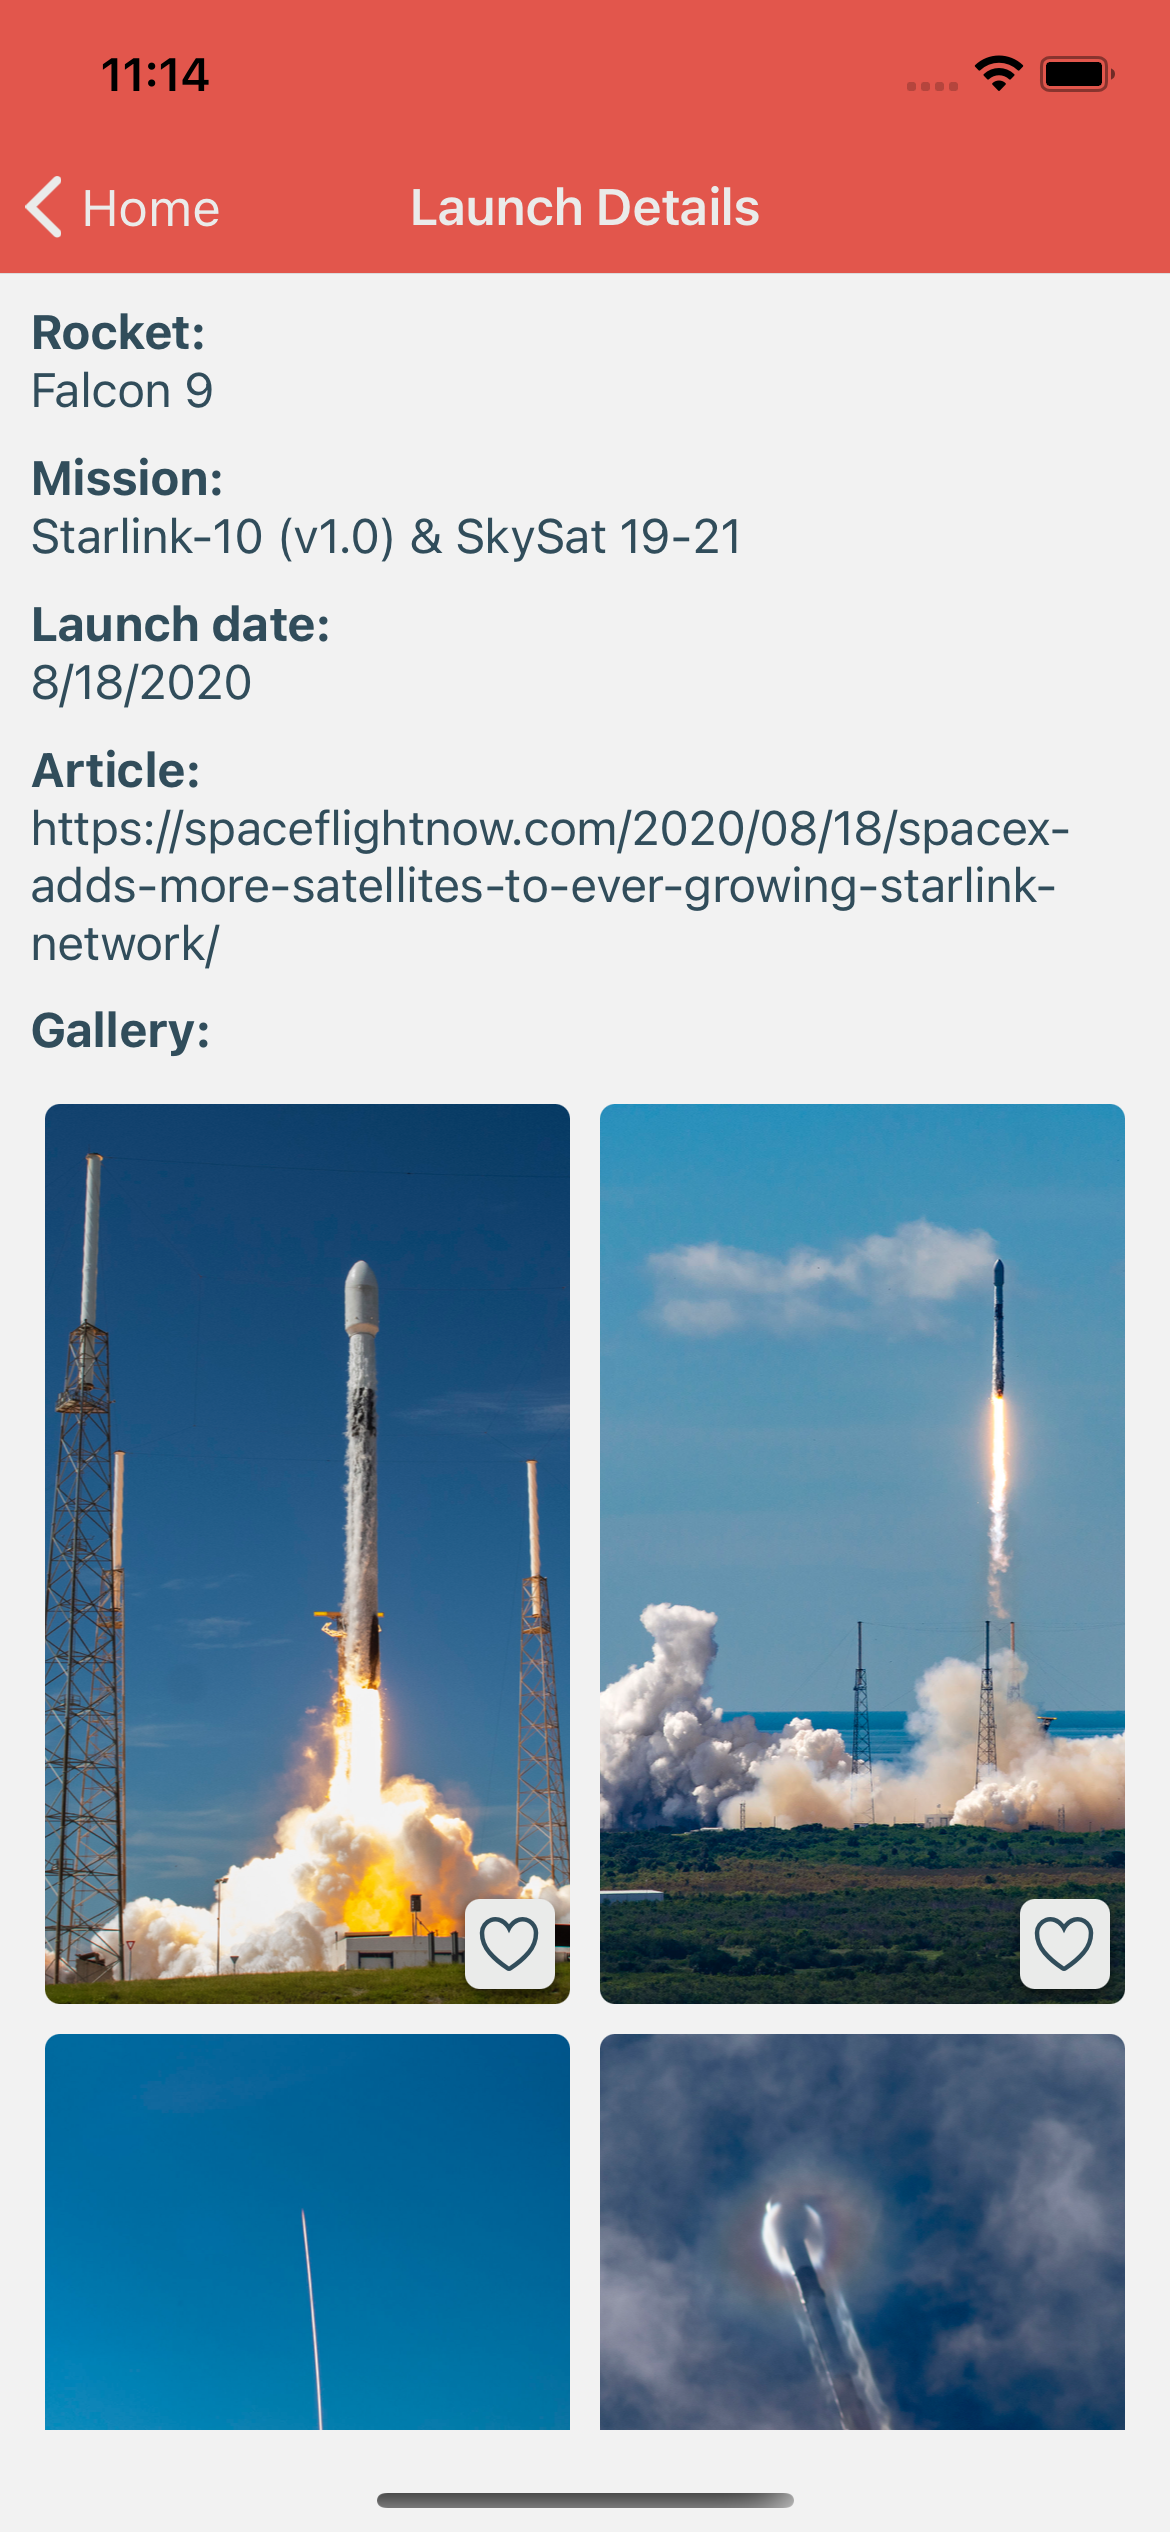
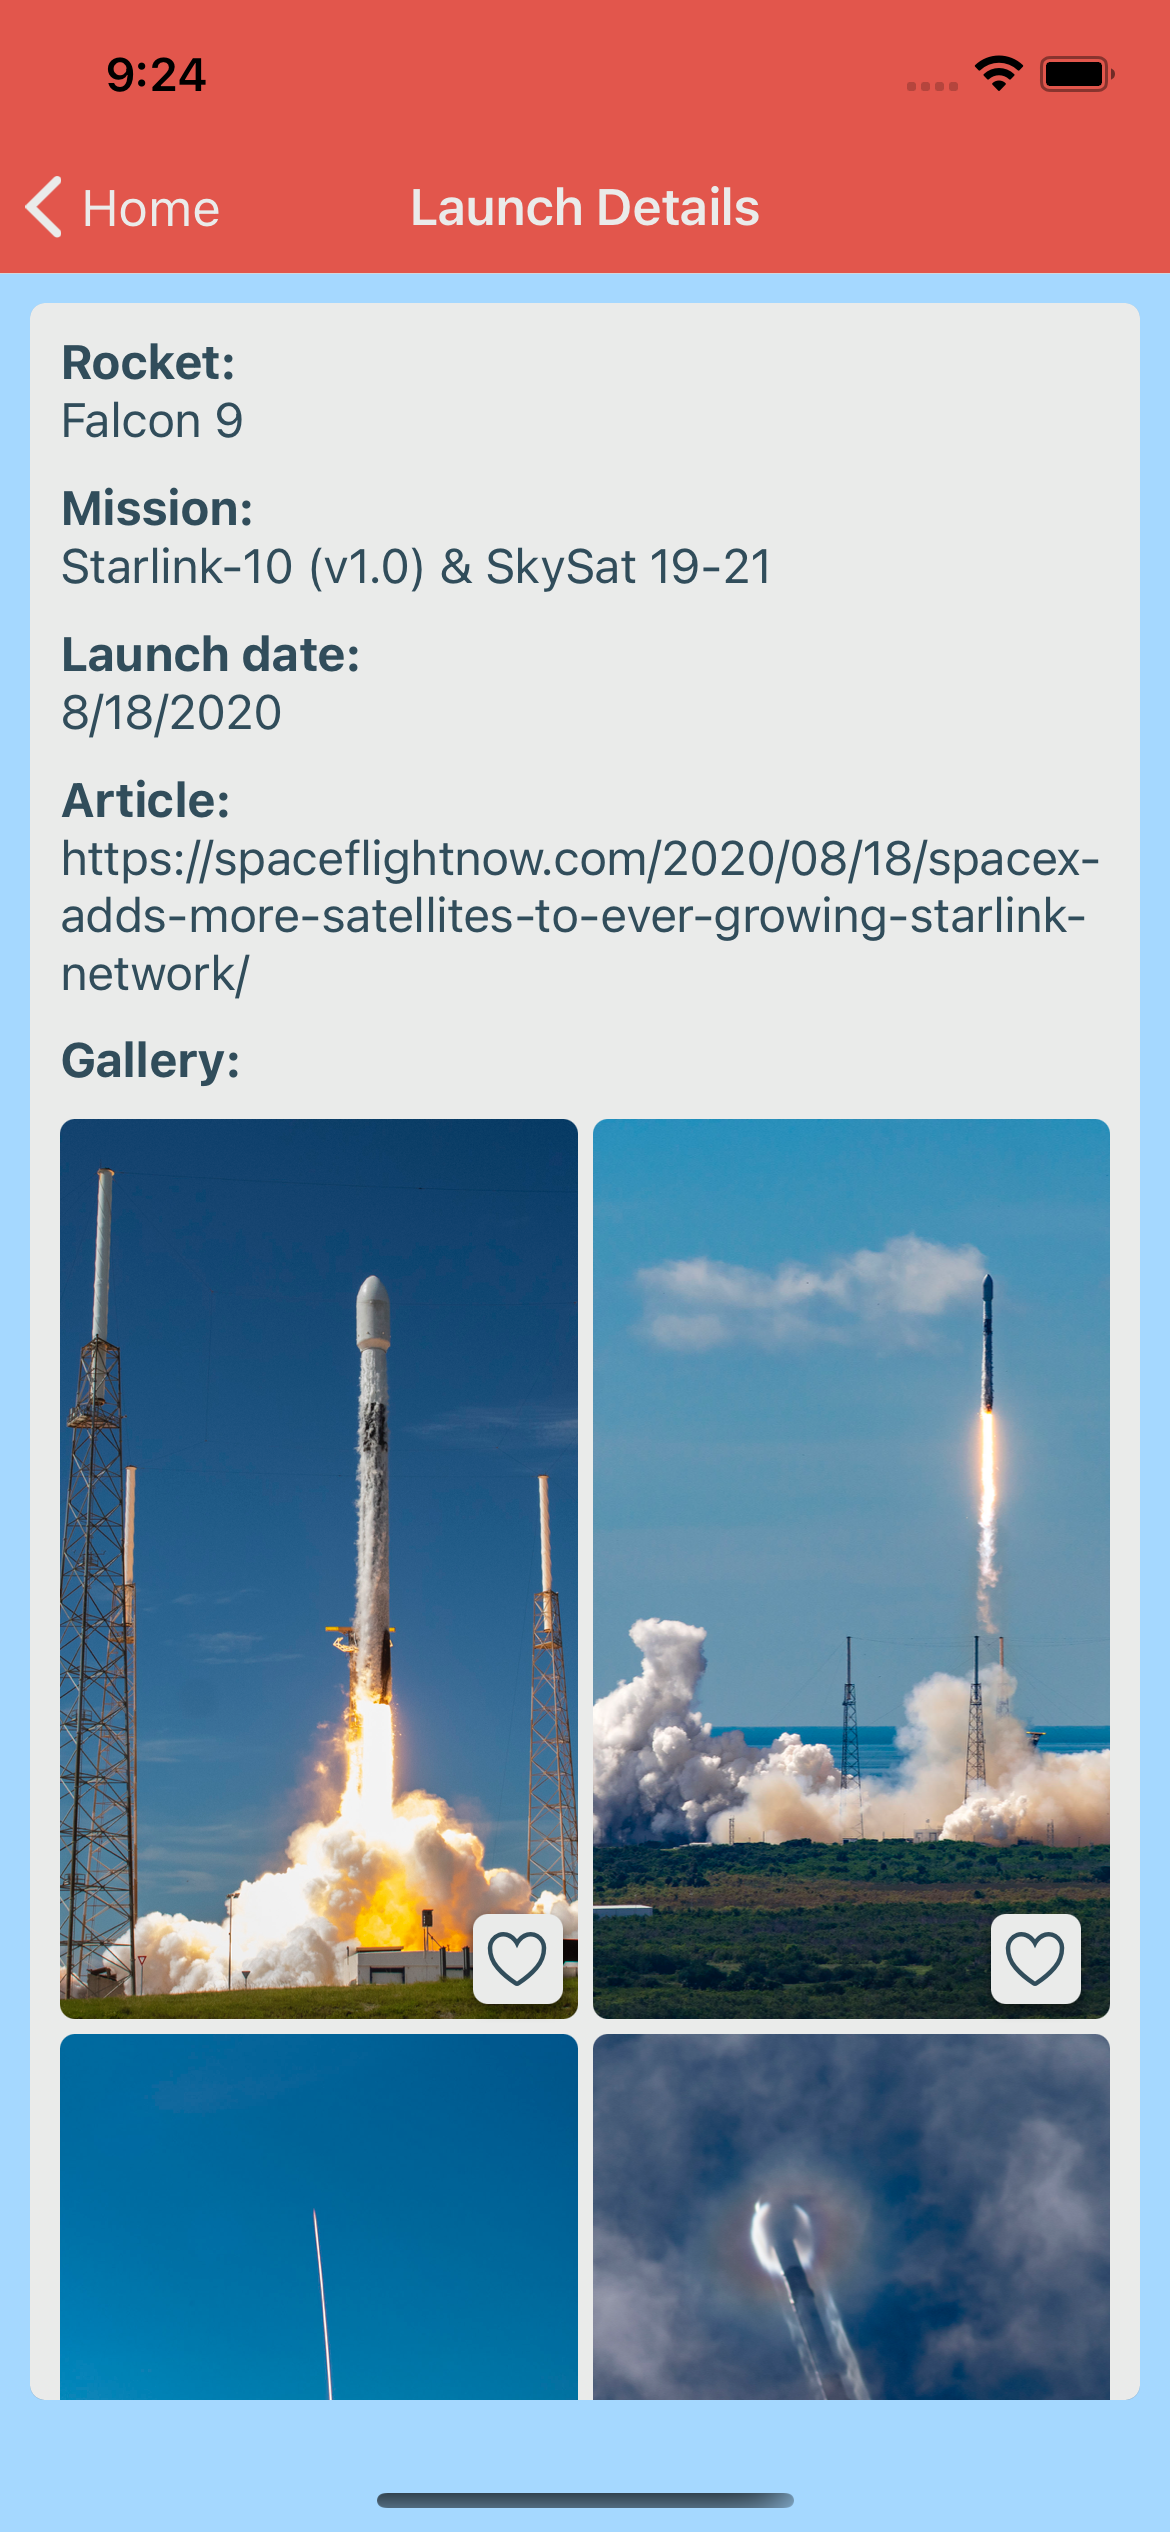
fixed some style details

diff --git a/src/components/detailsList.tsx b/src/components/detailsList.tsx
@@ -1,21 +1,31 @@
 import React from 'react';
-import {View, StyleSheet, FlatList, Text} from 'react-native';
+import {StyleSheet, FlatList, Text} from 'react-native';
 import ImageCard from './imageCard';
 import Launch from '../interfaces/launch';
 import DetailsHeader from './detailsHeader';
-import AppFooter from './appFooter';
-import { primary_font_color } from '../theme/colors';
-import { padding } from '../theme/dimens';
+import {card_background_color, primary_font_color} from '../theme/colors';
+import {
+  border_radius_small,
+  margin,
+  margin_large,
+  padding,
+} from '../theme/dimens';
 
 interface Props {
   launch: Launch | undefined;
 }
 
 const DetailsList = ({launch}: Props) => {
-  function renderItem({item}: {item: string}) {
-
+  function renderItem({item, index}: {item: string; index: number}) {
     return (
-      <ImageCard hasPadding={true} roundedBottomBorders={true} url={item} />
+      <ImageCard
+        hasPadding={
+          index % 2 === 0 &&
+          index < (launch?.links?.flickr_images.length || 0) - 1
+        }
+        roundedBottomBorders={true}
+        url={item}
+      />
     );
   }
 
@@ -34,15 +44,31 @@ const DetailsList = ({launch}: Props) => {
       renderItem={renderItem}
       keyExtractor={item => item}
       numColumns={2}
-      contentContainerStyle={{ paddingBottom: padding }}
-      ListEmptyComponent={<Text style={styles.emptyList}>No images available</Text>}
+      showsVerticalScrollIndicator={false}
+      contentContainerStyle={styles.listContainer}
+      ListEmptyComponent={
+        <Text style={styles.emptyList}>No images available</Text>
+      }
     />
   );
 };
 
 const styles = StyleSheet.create({
   list: {
+    margin: margin,
     padding: padding,
+    backgroundColor: card_background_color,
+    borderRadius: border_radius_small,
+    shadowColor: '#000',
+    shadowOffset: {width: 0, height: 2},
+    shadowOpacity: 0.5,
+    shadowRadius: 2,
+    elevation: 2,
+  },
+
+  listContainer: {
+    marginBottom: margin_large,
+    paddingBottom: padding * 2,
   },
 
   emptyList: {
@@ -50,8 +76,8 @@ const styles = StyleSheet.create({
     color: primary_font_color,
     textAlign: 'center',
     padding: padding,
-    opacity: 0.7
-  }
+    opacity: 0.7,
+  },
 });
 
 export default DetailsList;

diff --git a/src/components/imageCard.tsx b/src/components/imageCard.tsx
@@ -31,11 +31,12 @@ const ImageCard = ({url, roundedBottomBorders, hasPadding}: Props) => {
       borderTopRightRadius: border_radius_small,
       borderBottomLeftRadius: roundedBottomBorders ? border_radius_small : 0,
       borderBottomRightRadius: roundedBottomBorders ? border_radius_small : 0,
-      padding: hasPadding ? padding_small : 0,
+      paddingRight: hasPadding ? padding_small : 0,
+      paddingBottom: hasPadding ? padding_small : 0,
       flex: 1,
       justifyContent: 'center',
-      alignItems: 'center',
-      flexDirection: 'row',
+      alignItems: 'flex-start',
+      flexDirection: 'row'
     },
   
     image: {

diff --git a/src/screens/details.tsx b/src/screens/details.tsx
@@ -3,6 +3,7 @@ import { SafeAreaView } from 'react-native';
 import {LaunchContext} from '../contexts/launchContext';
 import DetailsList from '../components/detailsList';
 import { StyleSheet } from 'react-native';
+import { main_background_color } from '../theme/colors';
 
 const Details = () => {
   const {currentLaunch} = useContext(LaunchContext);
@@ -17,6 +18,7 @@ const Details = () => {
 const styles = StyleSheet.create({
   container: {
     justifyContent: 'flex-start',
+    backgroundColor: main_background_color,
     flex: 1
   }
 })
